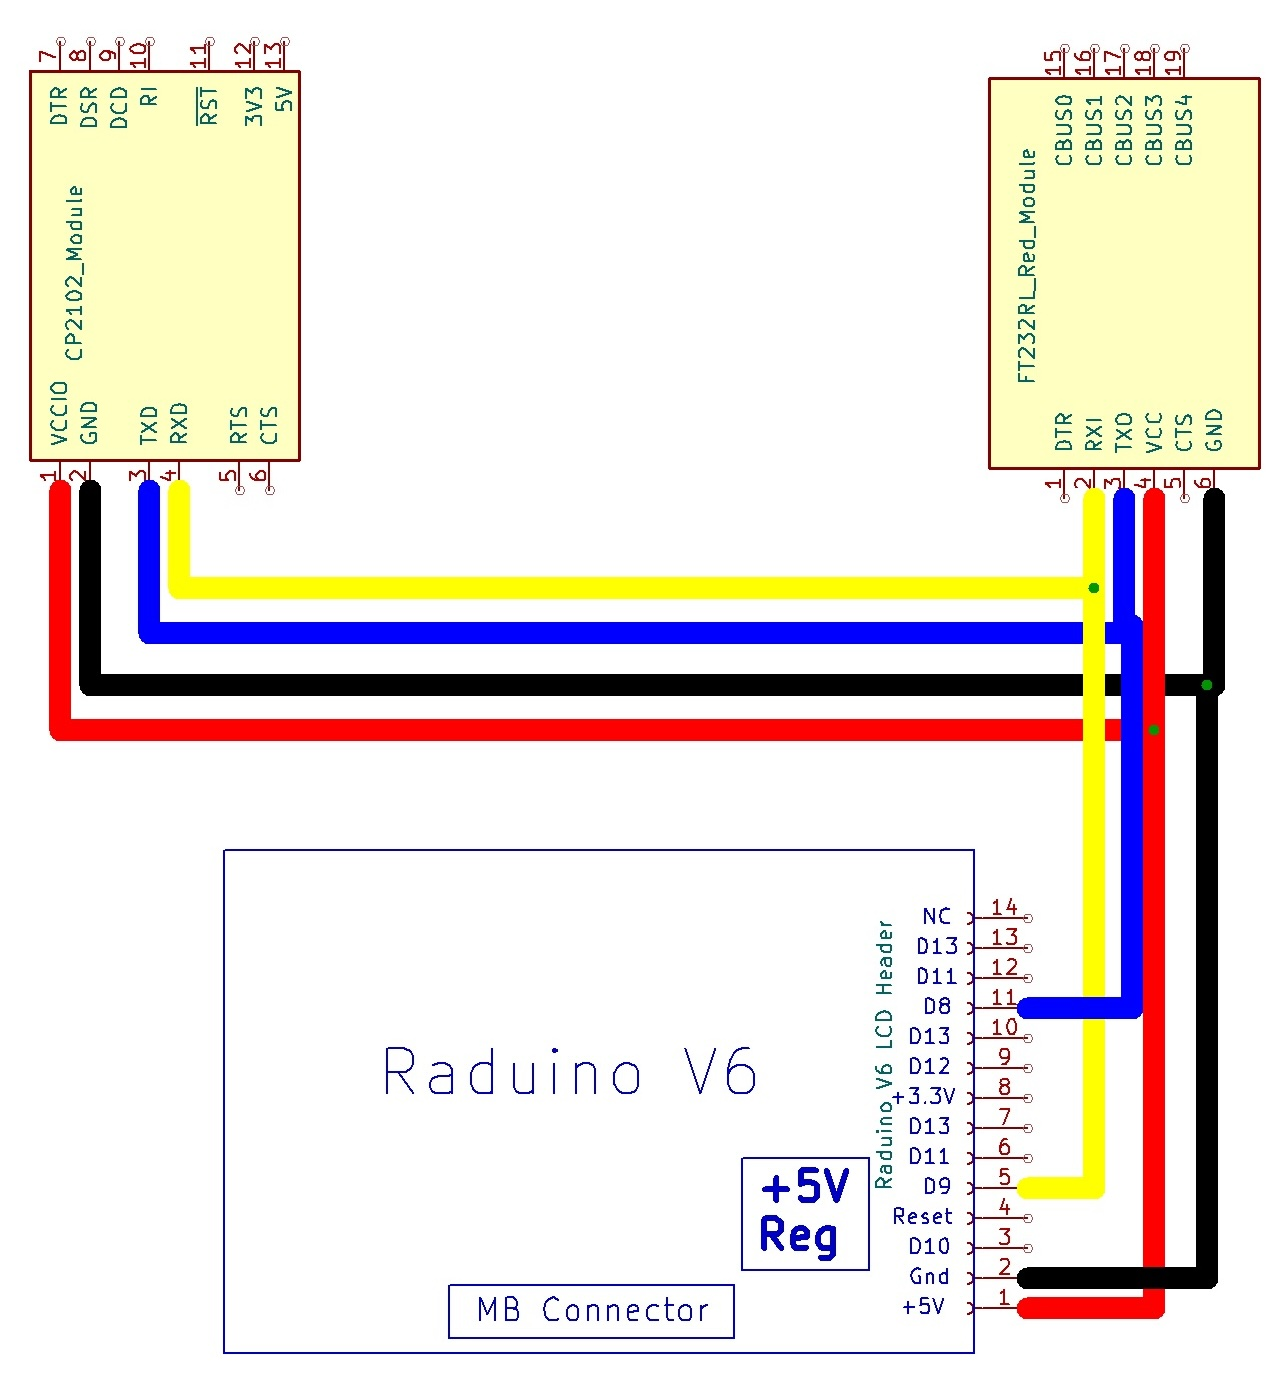
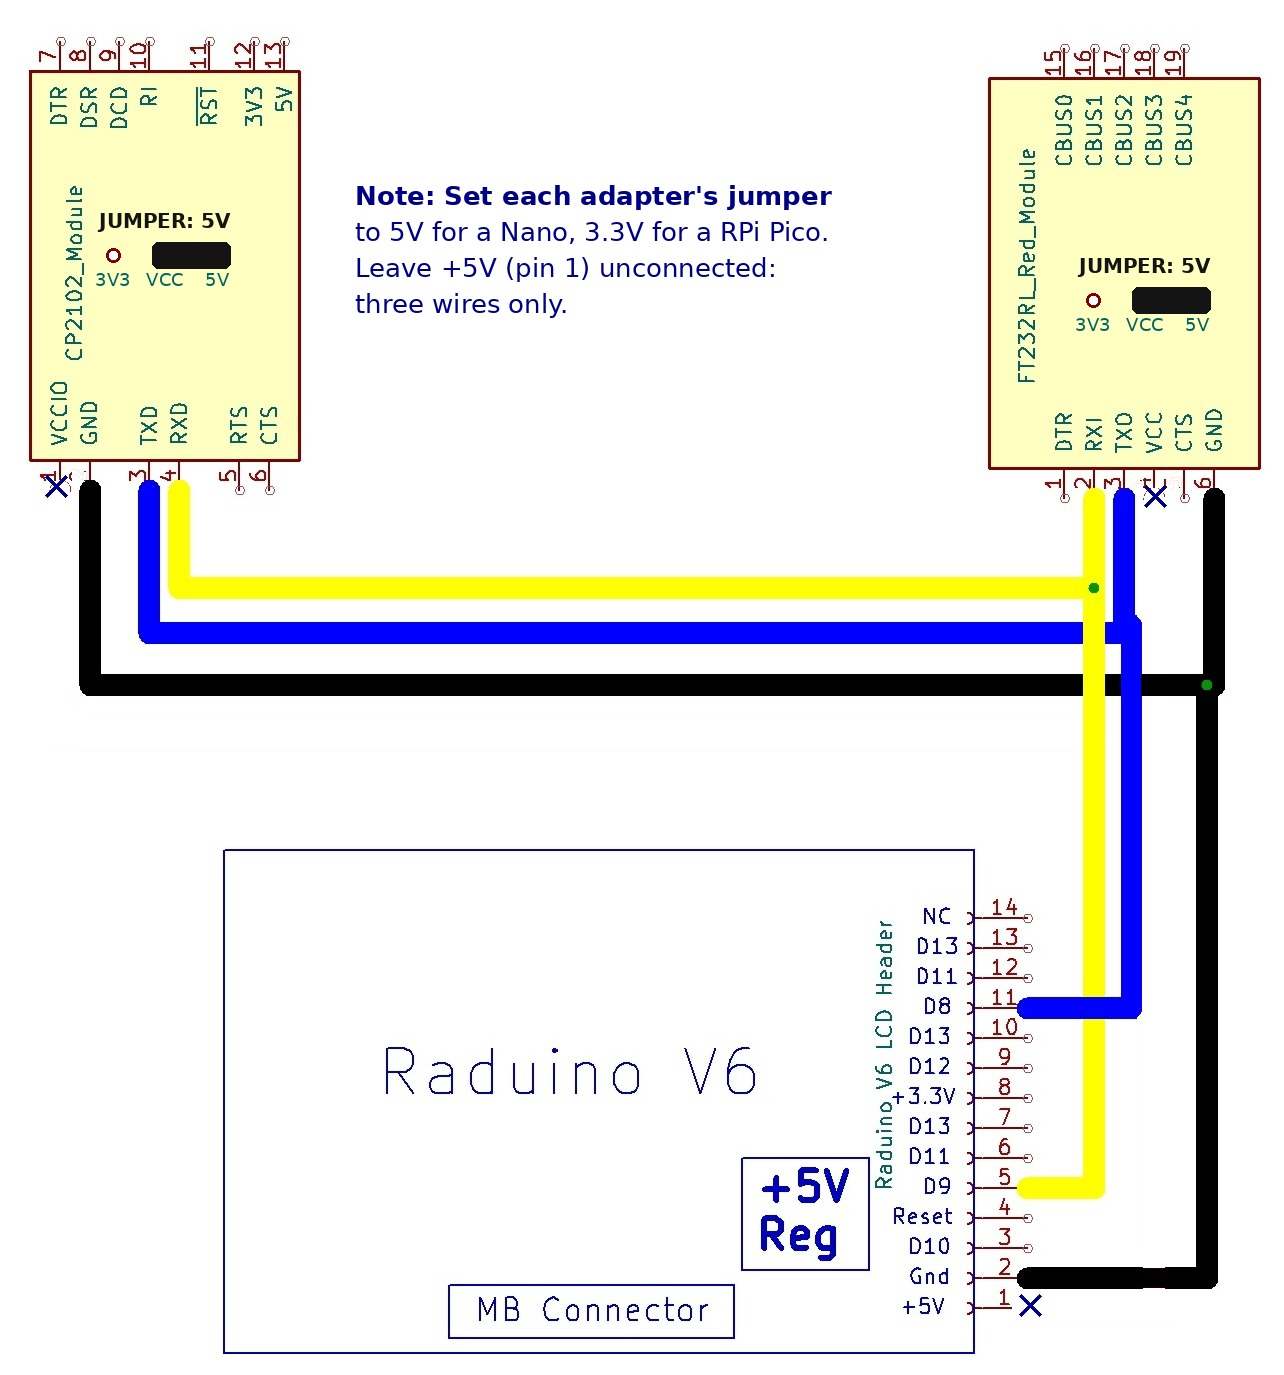
Help: the two wiring diagrams on three wires, with the jumper set
usb-ttl-wiring-v3_4_5_Raduino.jpg and usb_ttl_wiring_v6_Raduino.jpg
showed the red +5V wire from the Raduino to each adapter's VCC/VCCIO.
Edited to the three-wire wiring (Mark):
- the red wire removed, and the ground, TX and RX wires mended where it
  crossed them;
- a KiCad-style no-connect (X) on the adapters' VCCIO / VCC and on the
  Raduino's +5V pin;
- in each adapter, a 3-pin jumper (3V3 / VCC / 5V) with its cap on 5V,
  labeled "JUMPER: 5V";
- in the middle: "Note: Set each adapter's jumper to 5V for a Nano, 3.3V
  for a RPi Pico. Leave +5V (pin 2 / pin 1) unconnected: three wires only."

SHOTLIST marks both done.

Claude-Session: https://claude.ai/code/session_0123huCKYjMfy7MoAAYV7SKk

diff --git a/src/help/SHOTLIST.md b/src/help/SHOTLIST.md
@@ -7,8 +7,8 @@ Save each one in `help/images/` under the name given. The page shows it in place
 | `usb-ttl-adapter.jpg` | Done (edited 2026-11-22): the +5V wires shown "not connected", the note says set the jumper to 5V for a Nano, 3.3V for a RPi Pico. The photo still shows no jumper cap fitted; a retake with the cap on 5 V would be better still. |
 | `uBITX_V3_4_5_Nextion_Wiring.jpg` | Done: the Nextion cable on a V3/V4/V5 Raduino. |
 | `uBITX_V6_Nextion_Wiring.jpg` | Done: the Nextion cable on a V6 Raduino (from below). |
-| `usb-ttl-wiring-v3_4_5_Raduino.jpg` | **Redo (2026-11-22):** three wires only (pins 1, 4, 6); no +5 V to the adapter; jumper on 5 V. |
-| `usb_ttl_wiring_v6_Raduino.jpg` | **Redo (2026-11-22):** three wires only (pins 2, 5, 11); no +5 V to the adapter; jumper on 5 V. |
+| `usb-ttl-wiring-v3_4_5_Raduino.jpg` | Done (edited 2026-11-22): three wires (pins 1, 4, 6); +5 V marked not connected at both ends; a jumper on 5V drawn in each adapter; the note in the middle. |
+| `usb_ttl_wiring_v6_Raduino.jpg` | Done (edited 2026-11-22): three wires (pins 2, 5, 11); +5 V marked not connected at both ends; a jumper on 5V drawn in each adapter; the note in the middle. |
 | `setup-radio.png` | Done: Setup → **Station & Radio** sub-tab: the callsign, appearance and Keep on top beside the Radio group, with the adapter chosen under Port, Speed, Connect. |
 | `setup-sdr.png` | Done: Setup → **SDR** sub-tab: SDRoxide Brown chosen, Start it, Address, Port, CW port. |
 | `operate.png` | Done: Operate, connected to the radio and SDRoxide Brown: a frequency, a signal on the meter, a lamp or two lit. Split on helps show the RX/TX badges with different VFOs. |
